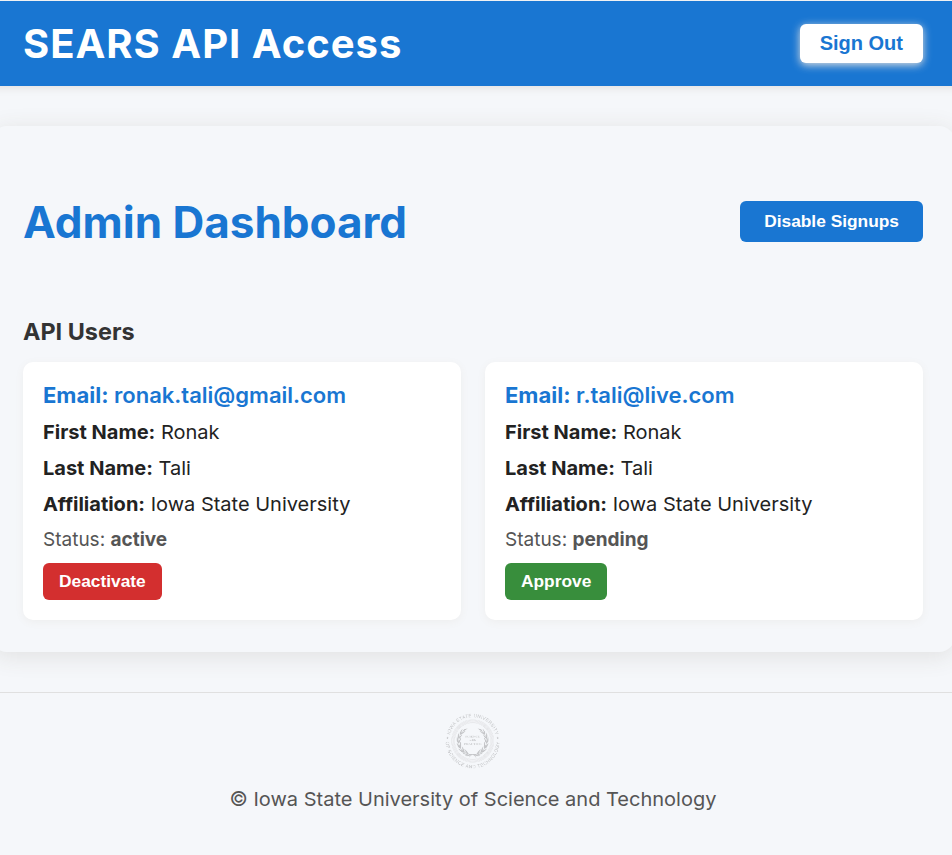
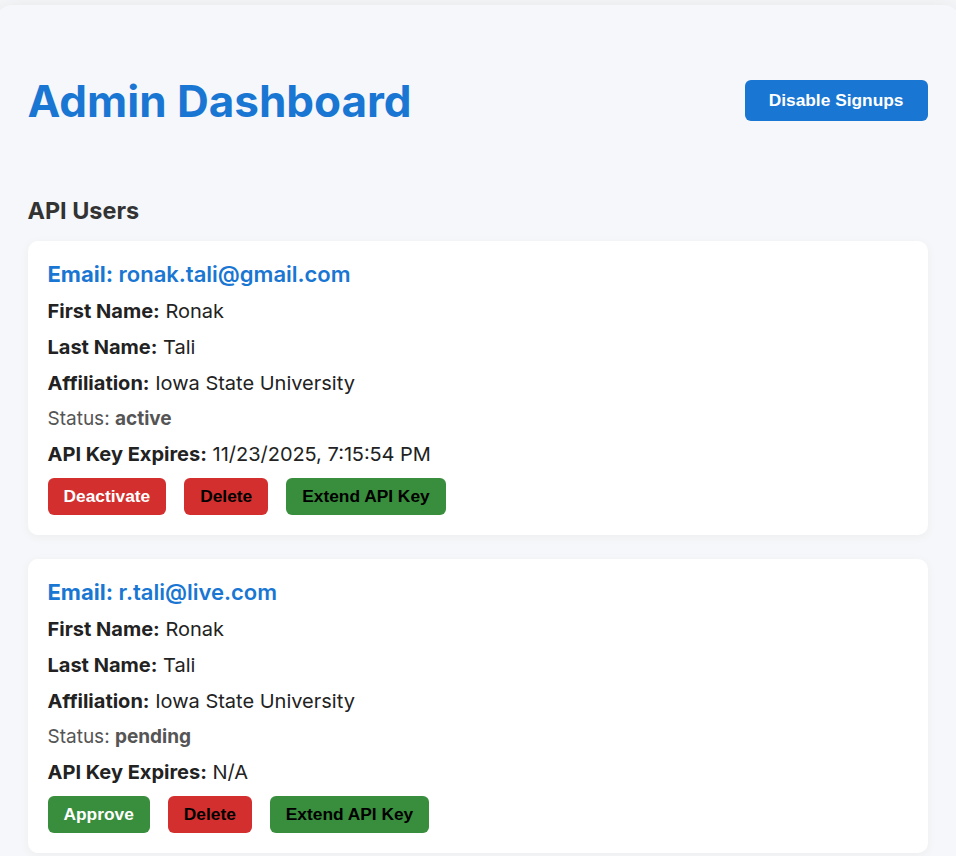
Adding More Admin functionalities

diff --git a/frontend/src/pages/AdminDashboard.jsx b/frontend/src/pages/AdminDashboard.jsx
@@ -7,6 +7,16 @@ import { useNavigate } from 'react-router-dom';
 import styles from './AdminDashboard.module.css';
 
 function AdminDashboard() {
+  const handleExtendApiKey = async (id) => {
+    await axios.post(`/admin/extend-apikey/${id}`);
+    fetchUsers();
+  };
+  const handleDeleteUser = async (id) => {
+    if (window.confirm('Are you sure you want to delete this user? This action cannot be undone.')) {
+      await axios.delete(`/admin/user/${id}`);
+      fetchUsers();
+    }
+  };
   const [users, setUsers] = useState([]);
   const [signupDisabled, setSignupDisabled] = useState(false);
   const [showSignupWarning, setShowSignupWarning] = useState(false);
@@ -72,10 +82,13 @@ function AdminDashboard() {
               <div><b>Last Name:</b> {user.lastName}</div>
               <div><b>Affiliation:</b> {user.affiliation}</div>
               <div className={styles.userStatus}>Status: <b>{user.status}</b></div>
+              <div><b>API Key Expires:</b> {user.apiKeyExpiry ? new Date(user.apiKeyExpiry).toLocaleString() : 'N/A'}</div>
               <div className={styles.actionBtns}>
                 {user.status === 'pending' && <button className={`${styles.btn} ${styles.approveBtn}`} onClick={() => handleApprove(user._id)}>Approve</button>}
                 {user.status === 'active' && <button className={`${styles.btn} ${styles.deactivateBtn}`} onClick={() => handleDeactivate(user._id)}>Deactivate</button>}
                 {user.status === 'deactivated' && <button className={`${styles.btn} ${styles.reactivateBtn}`} onClick={() => handleReactivate(user._id)}>Reactivate</button>}
+                <button className={`${styles.btn} ${styles.deleteBtn}`} style={{background:'#d32f2f', marginLeft:8}} onClick={() => handleDeleteUser(user._id)}>Delete</button>
+                <button className={`${styles.btn} ${styles.extendBtn}`} style={{background:'#388e3c', marginLeft:8}} onClick={() => handleExtendApiKey(user._id)}>Extend API Key</button>
               </div>
             </div>
           ))}

diff --git a/backend/routes/admin.js b/backend/routes/admin.js
@@ -1,3 +1,18 @@
+// Admin: Extend API key validity by 90 days
+router.post('/extend-apikey/:id', async (req, res) => {
+  const user = await User.findById(req.params.id);
+  if (!user) return res.status(404).send('User not found');
+  user.apiKeyExpiry = new Date(Date.now() + 90 * 24 * 60 * 60 * 1000);
+  await user.save();
+  res.send('API key validity extended by 90 days');
+});
+// Admin: Delete user
+router.delete('/user/:id', async (req, res) => {
+  const user = await User.findById(req.params.id);
+  if (!user) return res.status(404).send('User not found');
+  await user.deleteOne();
+  res.send('User deleted');
+});
 import express from 'express';
 import User from '../models/User.js';
 import bcrypt from 'bcryptjs';

diff --git a/frontend/src/pages/AdminDashboard.module.css b/frontend/src/pages/AdminDashboard.module.css
@@ -39,8 +39,8 @@
   background: #388e3c;
 }
 .userGrid {
-  display: grid;
-  grid-template-columns: repeat(auto-fit, minmax(320px, 1fr));
+  display: flex;
+  flex-direction: column;
   gap: 24px;
 }
 .userCard {
